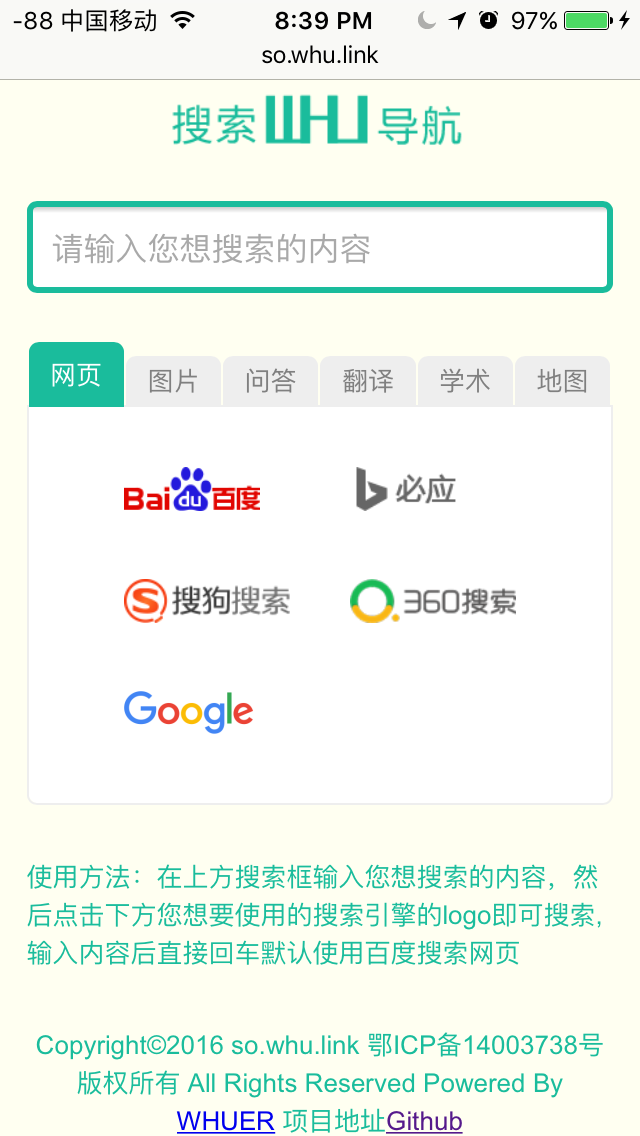
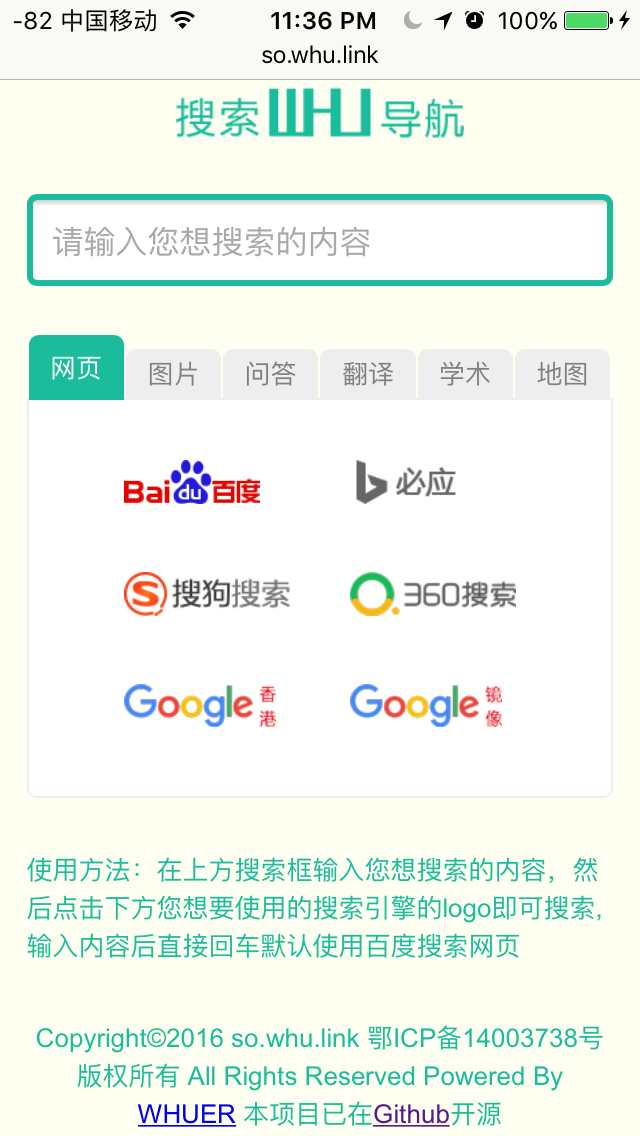
update

diff --git a/index.php b/index.php
@@ -16,7 +16,7 @@
 index = 0;
 function read_input(){
 var str = searchForm.input.value;
-//alert(str); background="img/background.jpg"
+//alert(str);
 return str;
 }
 
@@ -43,6 +43,9 @@ else if(name == "youdao_web"){
 else if(name == "google_web"){
 	var so = "https://www.google.com.hk/search?q=";
 }
+else if(name == "google_mirror_web"){
+	var so = "https://ss.wtf/#safe=strict&q=";
+}
 
 //img
 else if(name == "baidu_img"){
@@ -60,6 +63,7 @@ else if(name == "360_img"){
 else if(name == "google_img"){
 	var so = "https://www.google.com.hk/search?newwindow=1&safe=strict&site=imghp&tbm=isch&q=";
 }
+
 //AQ
 else if(name == "baidu_aq"){
 	var so = "https://zhidao.baidu.com/search?ct=17&pn=0&tn=ikaslist&rn=10&lm=0&ie=utf-8&word=";
@@ -112,6 +116,16 @@ else if(name == "youdao_scholar"){
 else if(name == "google_scholar"){
 	var so = "https://scholar.google.com.hk/scholar?q=";
 }
+else if(name == "google_mirror_scholar"){
+	var so = "https://g.sxisa.org/scholar?hl=zh-CN&q=";
+}
+else if(name == "luojia_scholar"){
+	var so = "http://cn.whu.findplus.cn/?h=search_list&action[addexpander][]=fulltext&query=";
+}
+else if(name == "whulib_scholar"){
+	var so = "http://202.114.65.38:8080/search?xc=3&filed=wrd&app=null&base=whu01&kw=";
+}
+//whulib_pc http://opac.whu.findplus.cn/?h=search_list&query=
 
 //map
 else if(name == "baidu_map"){
@@ -186,7 +200,9 @@ openWin('baidu');
 			</tr>
 			<tr>
 				<th><!--<h1>Google</h1> -->
-			<div href="JavaScript:void(0)" onclick="openWin('google_web')" align="left"><img src=img/google.png height="22" width=auto ></div></th>
+			<div href="JavaScript:void(0)" onclick="openWin('google_web')" align="left"><img src=img/google_hk.png height="22" width=auto ></div></th>
+				<th><!--<h1>Google_mirror</h1> -->
+			<div href="JavaScript:void(0)" onclick="openWin('google_mirror_web')" align="left"><img src=img/google_mirror.png height="22" width=auto ></div></th>
 			</tr>
 			</table>
 			</center>
@@ -208,7 +224,7 @@ openWin('baidu');
 			</tr>
 			<tr>
 				<th><!--<h1>Google</h1> -->
-			<div href="JavaScript:void(0)" onclick="openWin('google_img')" align="left"><img src=img/google.png height="22" width=auto ></div></th>
+			<div href="JavaScript:void(0)" onclick="openWin('google_img')" align="left"><img src=img/google_hk.png height="22" width=auto ></div></th>
 			</tr>
 			</table>
 			</center>
@@ -254,7 +270,7 @@ openWin('baidu');
 			<tr>
 
 				<th><!--<h1>Google</h1> -->
-			<div href="JavaScript:void(0)" onclick="openWin('google_translate')" align="left"><img src=img/google.png height="22" width=auto ></div></th>
+			<div href="JavaScript:void(0)" onclick="openWin('google_translate')" align="left"><img src=img/google_hk.png height="22" width=auto ></div></th>
 			</tr>
 			</table>
 			</center>
@@ -277,8 +293,16 @@ openWin('baidu');
 			</tr>
 			<tr>
 				<th><!--<h1>Google</h1> -->
-			<div href="JavaScript:void(0)" onclick="openWin('google_scholar')" align="left"><img src=img/google.png height="22" width=auto ></div></th>
+			<div href="JavaScript:void(0)" onclick="openWin('google_scholar')" align="left"><img src=img/google_hk.png height="22" width=auto ></div></th>
+				<th><!--<h1>Google_mirror</h1> -->
+			<div href="JavaScript:void(0)" onclick="openWin('google_mirror_scholar')" align="left"><img src=img/google_mirror.png height="22" width=auto ></div></th>
 			</tr>
+			</tr>
+				<th><!--<h1>luojia</h1> -->
+			<div href="JavaScript:void(0)" onclick="openWin('luojia_scholar')" align="left"><img src=img/luojia.png height="22" width=auto ></div></th>
+				<th><!--<h1>whulib</h1> -->
+			<div href="JavaScript:void(0)" onclick="openWin('whulib_scholar')" align="left"><img src=img/whulib.png height="22" width=auto ></div></th>
+			<tr>
 			</table>
 			</center>
 			
@@ -306,11 +330,11 @@ openWin('baidu');
 			</tr>
 			<tr>
 				<th><!--<h1>Google</h1> -->
-			<div href="JavaScript:void(0)" onclick="openWin('google_map')" align="left"><img src=img/google.png height="22" width=auto ></div></th>
+			<div href="JavaScript:void(0)" onclick="openWin('google_map')" align="left"><img src=img/google_hk.png height="22" width=auto ></div></th>
 			</tr>
 			</table>
 			</center>
-			<p>注意：地图无法从上方搜索框搜索，请直接点击logo进入地图网页地图查找！</p>
+			<p>注意：地图无法从上方搜索框搜索，请直接点击logo进入地图页面查找！</p>
 		</section>
 	  </div>
 	</div>
@@ -324,6 +348,6 @@ openWin('baidu');
 </script>
 
 <p>使用方法：在上方搜索框输入您想搜索的内容，然后点击下方您想要使用的搜索引擎的logo即可搜索,输入内容后直接回车默认使用百度搜索网页</p>
-<center><p>Copyright©2016 so.whu.link 鄂ICP备14003738号 版权所有 All Rights Reserved Powered By <a href="http://blog.xyf.im" target="_blank">WHUER</a> 项目地址<a href="https://github.com/xuyuanfang/so.whu.link" target="_blank">Github</a></p></center>
+<center><p>Copyright©2016 so.whu.link 鄂ICP备14003738号 版权所有 All Rights Reserved Powered By <a href="http://blog.xyf.im" target="_blank">WHUER</a> 本项目已在<a href="https://github.com/xuyuanfang/so.whu.link" target="_blank">Github</a>开源</p></center>
 </body>
 </html>

diff --git a/README.md b/README.md
@@ -14,12 +14,15 @@
 - 新浪爱问
 - 知乎
 - 有道翻译
+- 珞珈学术搜索
+- 武汉大学图书馆馆藏查询
 - 金山词霸
 - 高德地图
 - 腾讯地图
 - Google[网页/图片/翻译/学术/地图]
+- Google国内镜像[网页/学术]
 
-######备注：Google除地图服务国内能正常使用外，其余服务均被墙，请使用VPN或者修改本机HOST文件后访问！ 
+######备注：Google除地图服务国内能正常使用外，其余服务均被墙，请使用VPN或者修改本机HOST文件后访问！ Google网页搜索和学术搜索可使用国内镜像站点
 ######友情链接：获取最新翻墙HOST信息 [Github内部传送门](https://github.com/racaljk/hosts)
 
 浏览器要求
@@ -52,15 +55,17 @@
 更新日志
 -----------
 20161102 更新 v1.1
-- 对全部搜索引擎logo图片进行适应web优化，取消背景图片，提升加载速度，大幅减少流量消耗，整页图片加载大小由707KB降到119KB
+- 对全部搜索引擎logo图片进行适应web优化，取消背景图片，提升加载速度，大幅减少流量消耗，整页图片加载大小由707KB降到143KB
 - 启用新版logo，与页面主色调保持一致
 - 修复分类导航标签宽度自适应
+- 增加Google网页搜索和学术搜索的国内镜像支持
+- 增加珞珈学术搜索和武汉大学馆藏搜索
 
 20161102 更新 v1.0
 - 增加对“Enter”键发起搜索的支持 
 - 增加细化搜索内容的分类导航标签 
 - 重新设计搜索页面UI
-- 支持更多搜索引擎
+- 支持搜索引擎分类搜索
 
 20161029 创建v0.1
 - 框架预览版
